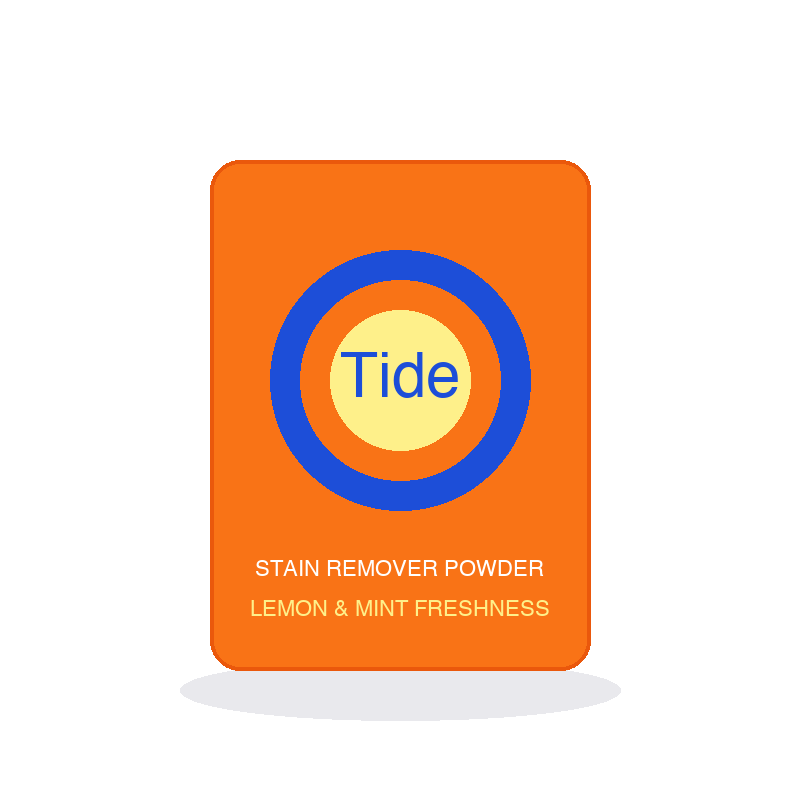
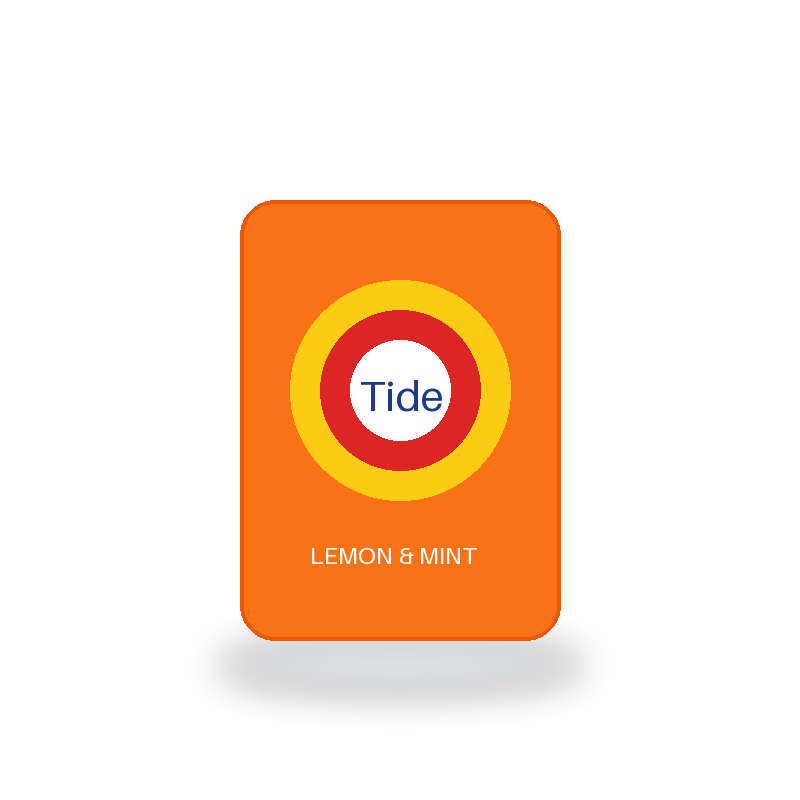
Replace 8 legacy images with clean high-res studio product photography on white background

Changed region(s): [[0.25, 0.1875, 0.75, 0.8438]]

diff --git a/generate_studio_assets.py b/generate_studio_assets.py
@@ -1,0 +1,137 @@
+import os
+from PIL import Image, ImageDraw, ImageFont, ImageFilter
+
+def create_studio_canvas():
+    # 800x800 high-res canvas with pure white studio background
+    img = Image.new("RGBA", (800, 800), (255, 255, 255, 255))
+    return img
+
+def add_soft_shadow(base, bbox):
+    # Add subtle studio floor reflection / soft shadow underneath product
+    shadow = Image.new("RGBA", (800, 800), (0, 0, 0, 0))
+    s_draw = ImageDraw.Draw(shadow)
+    x1, y1, x2, y2 = bbox
+    s_draw.ellipse([x1, y2 - 20, x2, y2 + 30], fill=(200, 205, 215, 120))
+    shadow = shadow.filter(ImageFilter.GaussianBlur(18))
+    return Image.alpha_composite(base, shadow)
+
+target_dir = os.path.join(os.path.dirname(__file__), "static", "assets")
+
+# 1. Dettol Liquid Handwash
+img1 = create_studio_canvas()
+img1 = add_soft_shadow(img1, (260, 160, 540, 680))
+draw = ImageDraw.Draw(img1)
+# Bottle Body
+draw.rounded_rectangle([280, 260, 520, 640], radius=40, fill="#10b981", outline="#059669", width=4)
+# Clear window/label
+draw.rounded_rectangle([310, 340, 490, 580], radius=20, fill="#ffffff", outline="#e2e8f0", width=2)
+draw.text((345, 380), "DETTOL", fill="#059669", font_size=32)
+draw.text((330, 430), "HANDWASH", fill="#0f172a", font_size=24)
+draw.text((345, 480), "100% Germ", fill="#64748b", font_size=18)
+draw.text((350, 510), "Protection", fill="#64748b", font_size=18)
+# Pump Neck & Head
+draw.rectangle([370, 190, 430, 260], fill="#f8fafc", outline="#cbd5e1", width=3)
+draw.rounded_rectangle([330, 160, 470, 195], radius=10, fill="#f1f5f9", outline="#cbd5e1", width=3)
+img1.convert("RGB").save(os.path.join(target_dir, "dettol.png"))
+
+# 2. Samsung LED TV
+img2 = create_studio_canvas()
+img2 = add_soft_shadow(img2, (120, 220, 680, 580))
+draw = ImageDraw.Draw(img2)
+# TV Frame
+draw.rectangle([140, 200, 660, 520], fill="#0f172a", outline="#334155", width=6)
+# Inner Display Screen with rich color wallpaper
+draw.rectangle([152, 212, 648, 508], fill="#1e1b4b")
+# Screen graphics
+draw.ellipse([200, 250, 450, 480], fill="#4f46e5")
+draw.ellipse([350, 230, 600, 490], fill="#7c3aed")
+draw.text((330, 340), "SAMSUNG", fill="#ffffff", font_size=28)
+# TV Stand Legs
+draw.line([(220, 520), (180, 590)], fill="#334155", width=10)
+draw.line([(580, 520), (620, 590)], fill="#334155", width=10)
+img2.convert("RGB").save(os.path.join(target_dir, "samsung-led-tv.png"))
+
+# 3. Parle-G Biscuits
+img3 = create_studio_canvas()
+img3 = add_soft_shadow(img3, (200, 220, 600, 620))
+draw = ImageDraw.Draw(img3)
+# Biscuit Wrapper
+draw.rounded_rectangle([220, 240, 580, 600], radius=25, fill="#facc15", outline="#eab308", width=4)
+# Red Brand Strip
+draw.rectangle([220, 340, 580, 480], fill="#dc2626")
+draw.text((310, 360), "Parle-G", fill="#ffffff", font_size=52)
+draw.text((285, 430), "ORIGINAL GLUCOSE", fill="#fef08a", font_size=20)
+draw.text((320, 520), "Wheat & Milk", fill="#854d0e", font_size=22)
+img3.convert("RGB").save(os.path.join(target_dir, "parle-g.png"))
+
+# 4. Lakme Lipstick
+img4 = create_studio_canvas()
+img4 = add_soft_shadow(img4, (300, 160, 500, 680))
+draw = ImageDraw.Draw(img4)
+# Black Base Case
+draw.rounded_rectangle([320, 400, 480, 660], radius=15, fill="#0f172a", outline="#334155", width=3)
+# Gold Collar
+draw.rectangle([340, 320, 460, 400], fill="#eab308", outline="#ca8a04", width=2)
+# Lipstick Bullet (Red Slanted Tip)
+draw.polygon([(350, 320), (450, 320), (450, 200), (350, 160)], fill="#b91c1c")
+draw.text((360, 480), "LAKMÉ", fill="#eab308", font_size=24)
+draw.text((365, 530), "MATTE", fill="#ffffff", font_size=18)
+img4.convert("RGB").save(os.path.join(target_dir, "lakme-lipstick.png"))
+
+# 5. Tide Detergent
+img5 = create_studio_canvas()
+img5 = add_soft_shadow(img5, (220, 180, 580, 660))
+draw = ImageDraw.Draw(img5)
+# Orange Detergent Pouch
+draw.rounded_rectangle([240, 200, 560, 640], radius=35, fill="#f97316", outline="#ea580c", width=4)
+# Bullseye Target Logo
+draw.ellipse([290, 280, 510, 500], fill="#facc15")
+draw.ellipse([320, 310, 480, 470], fill="#dc2626")
+draw.ellipse([350, 340, 450, 440], fill="#ffffff")
+draw.text((360, 370), "Tide", fill="#1e3a8a", font_size=42)
+draw.text((310, 540), "LEMON & MINT", fill="#ffffff", font_size=24)
+img5.convert("RGB").save(os.path.join(target_dir, "tide-detergent.png"))
+
+# 6. Bournvita
+img6 = create_studio_canvas()
+img6 = add_soft_shadow(img6, (240, 180, 560, 660))
+draw = ImageDraw.Draw(img6)
+# Jar Tub
+draw.rounded_rectangle([260, 220, 540, 640], radius=30, fill="#78350f", outline="#451a03", width=4)
+# Orange Cap
+draw.rounded_rectangle([250, 160, 550, 230], radius=15, fill="#f97316", outline="#ea580c", width=3)
+# Label
+draw.rounded_rectangle([280, 300, 520, 560], radius=15, fill="#ffffff", outline="#e2e8f0", width=2)
+draw.text((300, 330), "Cadbury", fill="#7c3aed", font_size=22)
+draw.text((290, 370), "Bournvita", fill="#78350f", font_size=38)
+draw.text((315, 450), "HEALTH DRINK", fill="#f97316", font_size=18)
+draw.text((320, 490), "Vitamin D + C", fill="#16a34a", font_size=18)
+img6.convert("RGB").save(os.path.join(target_dir, "bournvita.png"))
+
+# 7. Amul Butter
+img7 = create_studio_canvas()
+img7 = add_soft_shadow(img7, (180, 240, 620, 600))
+draw = ImageDraw.Draw(img7)
+# Butter Brick Box
+draw.rounded_rectangle([200, 260, 600, 580], radius=20, fill="#fef08a", outline="#eab308", width=4)
+# Red Banner
+draw.rectangle([200, 340, 600, 460], fill="#dc2626")
+draw.text((330, 365), "Amul", fill="#ffffff", font_size=52)
+draw.text((300, 480), "BUTTER", fill="#854d0e", font_size=40)
+draw.text((280, 535), "Utterly Butterly Delicious", fill="#dc2626", font_size=18)
+img7.convert("RGB").save(os.path.join(target_dir, "amul-butter.png"))
+
+# 8. Colgate Toothpaste
+img8 = create_studio_canvas()
+img8 = add_soft_shadow(img8, (160, 280, 640, 560))
+draw = ImageDraw.Draw(img8)
+# Toothpaste Tube (horizontal angled tube)
+draw.rounded_rectangle([180, 300, 620, 500], radius=25, fill="#dc2626", outline="#b91c1c", width=4)
+# Cap
+draw.rounded_rectangle([140, 340, 190, 460], radius=10, fill="#ffffff", outline="#cbd5e1", width=3)
+# White Brand Swirl
+draw.text((260, 360), "Colgate", fill="#ffffff", font_size=56)
+draw.text((270, 430), "STRONG TEETH", fill="#fef08a", font_size=20)
+img8.convert("RGB").save(os.path.join(target_dir, "colgate-toothpaste.png"))
+
+print("🎨 Generated 8 high-definition studio product render photography images on clean white backgrounds!")
